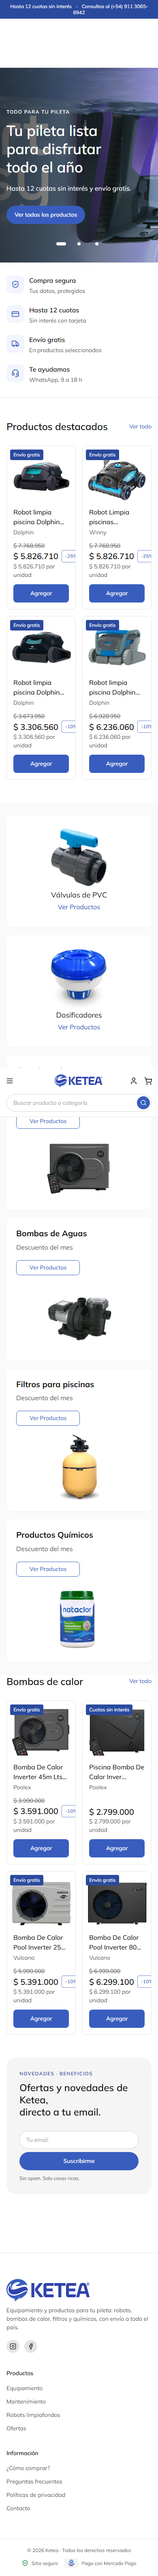
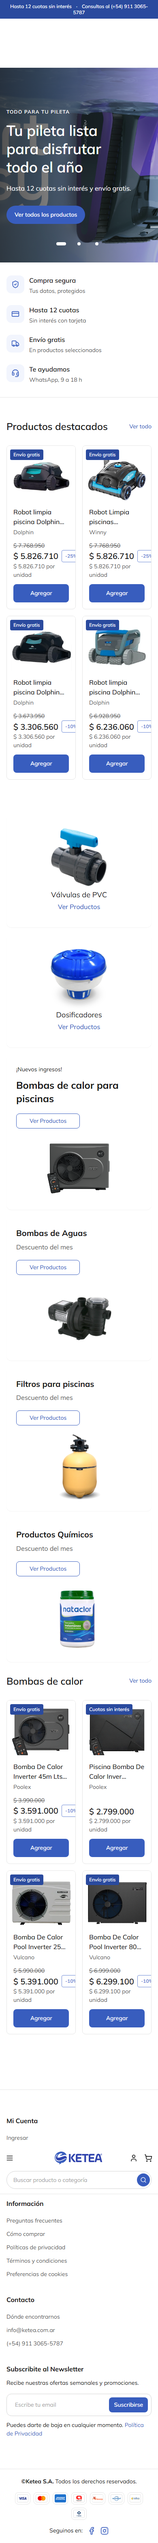
feat(footer): footer de 4 columnas con newsletter y medios de pago; promo-section sin fondo gris

diff --git a/components/footer.tsx b/components/footer.tsx
@@ -1,26 +1,31 @@
 "use client"
 
 import Link from "next/link"
-import { iconButtonClasses } from "@/components/ui/icon-button"
+import { useState } from "react"
 import { usePathname } from "next/navigation"
 import Image from "next/image"
-import { Instagram, Facebook, ShieldCheck } from "lucide-react"
+import { Instagram, Facebook } from "lucide-react"
+import { toast } from "sonner"
+import { Button } from "@/components/ui/button"
 import { cn } from "@/lib/utils"
-import { Logo } from "@/components/ui/logo"
+import { WHATSAPP_LABEL } from "@/components/patterns/header/nav-items"
 
-const PRODUCT_LINKS = [
-  ["Equipamiento", "/productos?nav=piscinas-todos"],
-  ["Mantenimiento", "/productos?nav=mantenimiento-todos"],
-  ["Robots limpiafondos", "/productos?nav=piscinas-robots"],
-  ["Ofertas", "/productos?nav=ofertas"],
+const ACCOUNT_LINKS = [
+  ["Ingresar", "/cuenta"],
+  ["Registrarse", "/cuenta"],
+  ["Recuperar contraseña", "/cuenta"],
+  ["Botón de arrepentimiento", "/contacto"],
 ]
 
 const INFO_LINKS = [
-  ["¿Cómo comprar?", "/como-comprar"],
   ["Preguntas frecuentes", "/preguntas-frecuentes"],
+  ["Cómo comprar", "/como-comprar"],
   ["Políticas de privacidad", "/politicas-de-privacidad"],
-  ["Contacto", "/contacto"],
+  ["Términos y condiciones", "/politicas-de-privacidad"],
+  ["Preferencias de cookies", "/politicas-de-privacidad"],
 ]
+
+const CARDS = ["visa", "mastercard", "amex", "argencard", "naranja", "cencosud", "nativa", "cabal"]
 
 function FooterLinks({ title, links }: { title: string; links: string[][] }) {
   return (
@@ -35,50 +40,78 @@ function FooterLinks({ title, links }: { title: string; links: string[][] }) {
   )
 }
 
-/** Footer — clases de styles/patterns/footer.css. */
+/** Footer — clases de styles/patterns/footer.css. Cuatro columnas (cuenta, información, contacto, newsletter) y barra inferior con medios de pago. */
 export default function Footer() {
   const pathname = usePathname()
+  const [email, setEmail] = useState("")
   // Checkout tiene fondo gris propio: sin margen, para que no quede una franja blanca
   const flush = pathname?.startsWith("/checkout")
+
+  function handleSubmit(e: React.FormEvent) {
+    e.preventDefault()
+    if (!email.trim()) return
+    toast.success("¡Listo! Ya estás suscripto a nuestras novedades.")
+    setEmail("")
+  }
+
   return (
     <footer className={cn("footer", !flush && "footer--spaced")}>
       <div className="footer__grid max-w-7xl mx-auto px-4 md:px-6 grid grid-cols-1 sm:grid-cols-2 lg:grid-cols-4 gap-10">
-        <div className="lg:col-span-2">
-          <Link href="/" className="footer__brand">
-            <Logo size="md" />
-          </Link>
-          <p className="footer__text max-w-sm">
-            Equipamiento y productos para tu pileta: robots, bombas de calor, filtros y químicos, con envío a todo el país.
-          </p>
-          <div className="footer__socials">
-            <a href="https://www.instagram.com/" target="_blank" rel="noopener noreferrer"
-               aria-label="Ketea en Instagram"
-               className={iconButtonClasses({ variant: "subtle", size: "sm" })}>
-              <Instagram className="icon-sm" aria-hidden="true" />
-            </a>
-            <a href="https://www.facebook.com/" target="_blank" rel="noopener noreferrer"
-               aria-label="Ketea en Facebook"
-               className={iconButtonClasses({ variant: "subtle", size: "sm" })}>
-              <Facebook className="icon-sm" aria-hidden="true" />
-            </a>
-          </div>
+        <FooterLinks title="Mi Cuenta" links={ACCOUNT_LINKS} />
+        <FooterLinks title="Información" links={INFO_LINKS} />
+
+        <div>
+          <h2 className="footer__heading">Contacto</h2>
+          <ul className="footer__list">
+            <li><Link href="/contacto" className="footer__link">Dónde encontrarnos</Link></li>
+            <li><a href="mailto:info@ketea.com.ar" className="footer__link">info@ketea.com.ar</a></li>
+            <li><span className="footer__text">{WHATSAPP_LABEL}</span></li>
+          </ul>
         </div>
 
-        <FooterLinks title="Productos" links={PRODUCT_LINKS} />
-        <FooterLinks title="Información" links={INFO_LINKS} />
+        <div>
+          <h2 className="footer__heading footer__heading--tight">Subscribite al Newsletter</h2>
+          <p className="footer__lead">Recibe nuestras ofertas semanales y promociones.</p>
+          <form onSubmit={handleSubmit} className="footer__newsletter">
+            <input
+              type="email"
+              autoComplete="email"
+              required
+              value={email}
+              onChange={(e) => setEmail(e.target.value)}
+              placeholder="Escribe tu email"
+              aria-label="Tu email"
+              className="footer__newsletter-input"
+            />
+            <Button type="submit" size="sm">Suscribirse</Button>
+          </form>
+          <p className="footer__lead">
+            Puedes darte de baja en cualquier momento.{" "}
+            <Link href="/politicas-de-privacidad" className="footer__link footer__link--brand">Política de Privacidad</Link>
+          </p>
+        </div>
       </div>
 
       <div className="footer__legal">
         <div className="footer__legal-row max-w-7xl mx-auto px-4 md:px-6">
-          <span>© {new Date().getFullYear()} Ketea · Todos los derechos reservados</span>
-          <div className="footer__legal-group">
-            <span className="footer__legal-item">
-              <ShieldCheck aria-hidden="true" /> Sitio seguro
-            </span>
-            <span className="footer__legal-item">
-              <Image src="/cards/mercado-pago.svg" alt="" width={40} height={28} className="footer__payment" />
-              Pago con Mercado Pago
-            </span>
+          <span className="footer__copy"><strong>©Ketea S.A.</strong> Todos los derechos reservados.</span>
+
+          <ul className="footer__cards" aria-label="Medios de pago">
+            {CARDS.map((card) => (
+              <li key={card} className="footer__card">
+                <Image src={`/cards/${card}.svg`} alt={card} width={40} height={24} className="footer__card-image" />
+              </li>
+            ))}
+          </ul>
+
+          <div className="footer__socials">
+            <span>Seguinos en:</span>
+            <a href="https://www.facebook.com/" target="_blank" rel="noopener noreferrer" aria-label="Ketea en Facebook" className="footer__social">
+              <Facebook className="icon-md" aria-hidden="true" />
+            </a>
+            <a href="https://www.instagram.com/" target="_blank" rel="noopener noreferrer" aria-label="Ketea en Instagram" className="footer__social">
+              <Instagram className="icon-md" aria-hidden="true" />
+            </a>
           </div>
         </div>
       </div>

diff --git a/styles/patterns/footer.css b/styles/patterns/footer.css
@@ -1,20 +1,57 @@
-/* Footer del sitio. Grilla y espaciado en Tailwind dentro del componente; acá, superficie y tipografía. */
+/* Footer del sitio (Figma: Footer). Grilla y espaciado en Tailwind dentro del componente; acá, superficie y tipografía.
+   Cuatro columnas (cuenta, información, contacto, newsletter) y barra inferior con medios de pago y redes. */
 @layer components {
   .footer { border-top: var(--border-width-sm) solid var(--color-border-default); background-color: var(--color-surface-default); color: var(--color-text-primary); }
-  .footer__text { font-size: var(--font-size-sm); line-height: var(--font-line-height-md); color: var(--color-text-secondary); }
-  .footer__heading { margin-bottom: var(--space-4); font-size: var(--font-size-sm); line-height: var(--font-line-height-sm); font-weight: var(--font-weight-semibold); color: var(--color-text-primary); }
-  .footer__list { display: flex; flex-direction: column; gap: var(--space-2-5); font-size: var(--font-size-sm); line-height: var(--font-line-height-sm); color: var(--color-text-secondary); }
-  .footer__link { color: var(--color-text-secondary); transition: color var(--duration-fast) var(--easing-standard); }
-  .footer__link:hover { color: var(--color-text-primary); }
-  .footer__legal { border-top: var(--border-width-sm) solid var(--color-border-default); font-size: var(--font-size-xs); line-height: var(--font-line-height-xs); color: var(--color-text-secondary); }
-  .footer__legal-item { display: flex; align-items: center; gap: var(--space-1-5); }
-  .footer__legal-item > svg { width: var(--space-4); height: var(--space-4); color: var(--color-feedback-success-solid); }
-  .footer__payment { height: var(--space-6); width: auto; border-radius: var(--radius-sm); }
   .footer--spaced { margin-top: var(--space-20); }
   .footer__grid { padding-block: var(--space-14); }
-  .footer__brand { display: flex; align-items: center; flex-shrink: 0; margin-bottom: var(--space-3); }
-  .footer__socials { display: flex; align-items: center; gap: var(--space-3); margin-top: var(--space-5); }
-  .footer__legal-row { display: flex; flex-direction: column; align-items: center; justify-content: space-between; gap: var(--space-3); padding-block: var(--space-5); }
-  @media (min-width: 640px) { .footer__legal-row { flex-direction: row; } }
-  .footer__legal-group { display: flex; align-items: center; gap: var(--space-4); }
+
+  .footer__heading { margin-bottom: var(--space-5); font-size: var(--font-size-md); line-height: var(--font-line-height-md); font-weight: var(--font-weight-bold); color: var(--color-text-primary); }
+  .footer__heading--tight { margin-bottom: var(--space-1); }
+  .footer__list { display: flex; flex-direction: column; gap: var(--space-3); font-size: var(--font-size-sm); line-height: var(--font-line-height-sm); }
+  .footer__text { color: var(--color-text-secondary); }
+  .footer__link { color: var(--color-text-secondary); transition: color var(--duration-fast) var(--easing-standard); }
+  .footer__link:hover { color: var(--color-text-primary); }
+  .footer__link--brand { color: var(--color-text-link); }
+  .footer__link--brand:hover { color: var(--color-text-link-hover); }
+  .footer__lead { margin-block: var(--space-3); font-size: var(--font-size-sm); line-height: var(--font-line-height-sm); color: var(--color-text-primary); }
+
+  /* Newsletter: campo y botón dentro de un mismo borde */
+  .footer__newsletter {
+    display: flex;
+    align-items: center;
+    gap: var(--space-2);
+    margin-top: var(--space-4);
+    padding: var(--space-1-5);
+    border: var(--border-width-sm) solid var(--color-form-border);
+    border-radius: var(--radius-lg);
+    background-color: var(--color-form-bg);
+  }
+  .footer__newsletter:focus-within { border-color: var(--color-form-border-focus); }
+  .footer__newsletter-input {
+    flex: 1 1 0%;
+    min-width: 0;
+    padding-inline: var(--space-3);
+    border: 0;
+    background-color: transparent;
+    font-size: var(--font-size-sm);
+    line-height: var(--font-line-height-sm);
+    color: var(--color-text-primary);
+  }
+  .footer__newsletter-input::placeholder { color: var(--color-form-placeholder); }
+  /* El borde de foco lo muestra el contenedor */
+  .footer__newsletter-input:focus-visible { outline: none; border: 0; box-shadow: none; background-color: transparent; }
+
+  /* Barra inferior */
+  .footer__legal { border-top: var(--border-width-sm) solid var(--color-border-default); font-size: var(--font-size-sm); line-height: var(--font-line-height-sm); color: var(--color-text-primary); }
+  .footer__legal-row { display: flex; flex-direction: column; align-items: center; justify-content: space-between; gap: var(--space-4); padding-block: var(--space-5); }
+  @media (min-width: 1024px) { .footer__legal-row { flex-direction: row; } }
+  .footer__copy { text-align: center; }
+
+  .footer__cards { display: flex; flex-wrap: wrap; align-items: center; justify-content: center; gap: var(--space-2); }
+  .footer__card { display: flex; align-items: center; justify-content: center; padding: var(--space-1); border: var(--border-width-sm) solid var(--color-border-default); border-radius: var(--radius-md); background-color: var(--color-surface-default); }
+  .footer__card-image { width: auto; height: var(--space-5); }
+
+  .footer__socials { display: flex; align-items: center; gap: var(--space-3); }
+  .footer__social { display: inline-flex; color: var(--color-icon-brand); transition: color var(--duration-fast) var(--easing-standard); }
+  .footer__social:hover { color: var(--color-text-link-hover); }
 }

diff --git a/app/preguntas-frecuentes/page.tsx b/app/preguntas-frecuentes/page.tsx
@@ -6,7 +6,7 @@ import Link from "next/link"
 import { ChevronDown } from "lucide-react"
 import { PageHeader } from "@/components/patterns/page-header"
 
-const WHATSAPP = "https://api.whatsapp.com/send?phone=5491130656942"
+const WHATSAPP = "https://api.whatsapp.com/send?phone=5491130655787"
 
 const FAQS: { q: string; a: ReactNode }[] = [
   {
@@ -27,11 +27,11 @@ const FAQS: { q: string; a: ReactNode }[] = [
   },
   {
     q: "¿En qué zonas entregan?",
-    a: <>Entregamos en CABA y cada barrio tiene un día fijo. Al cargar tu dirección en el checkout te mostramos qué día te toca.<br />Para GBA, contactanos al <a href={WHATSAPP} target="_blank" rel="noopener noreferrer" className={linkClasses()}>(+54) 911 3065-6942</a>.</>,
+    a: <>Entregamos en CABA y cada barrio tiene un día fijo. Al cargar tu dirección en el checkout te mostramos qué día te toca.<br />Para GBA, contactanos al <a href={WHATSAPP} target="_blank" rel="noopener noreferrer" className={linkClasses()}>(+54) 911 3065-5787</a>.</>,
   },
   {
     q: "¿Cuánto cuesta el envío?",
-    a: <>Envío en CABA: lo recibís gratis en el día que corresponde a tu barrio.<br />Para envíos en GBA, contactanos al <a href={WHATSAPP} target="_blank" rel="noopener noreferrer" className={linkClasses()}>(+54) 911 3065-6942</a>.</>,
+    a: <>Envío en CABA: lo recibís gratis en el día que corresponde a tu barrio.<br />Para envíos en GBA, contactanos al <a href={WHATSAPP} target="_blank" rel="noopener noreferrer" className={linkClasses()}>(+54) 911 3065-5787</a>.</>,
   },
   {
     q: "¿Puede recibir otra persona mi pedido?",
@@ -71,7 +71,7 @@ const FAQS: { q: string; a: ReactNode }[] = [
   },
   {
     q: "Tengo otra pregunta",
-    a: <>Contactanos de lunes a viernes de 9 a 18 h al <a href={WHATSAPP} target="_blank" rel="noopener noreferrer" className={linkClasses()}>(+54) 911 3065-6942</a>.</>,
+    a: <>Contactanos de lunes a viernes de 9 a 18 h al <a href={WHATSAPP} target="_blank" rel="noopener noreferrer" className={linkClasses()}>(+54) 911 3065-5787</a>.</>,
   },
 ]
 
@@ -83,7 +83,7 @@ export default function PreguntasFrecuentesPage() {
       <PageHeader eyebrow="Ayuda" title="Preguntas frecuentes">
         Si no encontrás lo que buscás acá, escribinos por{" "}
         <a
-          href="https://api.whatsapp.com/send?phone=5491130656942"
+          href="https://api.whatsapp.com/send?phone=5491130655787"
           target="_blank"
           rel="noopener noreferrer"
           className={linkClasses()}

diff --git a/app/contacto/page.tsx b/app/contacto/page.tsx
@@ -17,14 +17,14 @@ export default function ContactoPage() {
       </PageHeader>
 
       <div className="space-y-4 mb-14">
-        <FeatureRow variant="card" href="https://api.whatsapp.com/send?phone=5491130656942" icon={<Phone className="icon-md" aria-hidden="true" />} title="WhatsApp">
-          (+54) 911 3065-6942
+        <FeatureRow variant="card" href="https://api.whatsapp.com/send?phone=5491130655787" icon={<Phone className="icon-md" aria-hidden="true" />} title="WhatsApp">
+          (+54) 911 3065-5787
         </FeatureRow>
         <FeatureRow variant="card" icon={<Clock className="icon-md" aria-hidden="true" />} title="Horario de atención">
           Lunes a viernes de 9 a 18 hs
         </FeatureRow>
         <FeatureRow variant="card" icon={<MapPin className="icon-md" aria-hidden="true" />} title="Zona de entrega">
-          Envío gratis en CABA · GBA: consultanos al (+54) 911 3065-6942
+          Envío gratis en CABA · GBA: consultanos al (+54) 911 3065-5787
         </FeatureRow>
       </div>
 

diff --git a/app/page.tsx b/app/page.tsx
@@ -1,7 +1,6 @@
 import { Truck, ShieldCheck, CreditCard, Headset } from "lucide-react"
 import ProductCard from "@/components/patterns/product-card"
 import Hero from "@/components/hero"
-import NewsletterBanner from "@/components/newsletter-banner"
 import { TrustStrip, type TrustItem } from "@/components/patterns/trust-strip"
 import { PromoBanner } from "@/components/patterns/promo-banner"
 import { SectionHeader } from "@/components/patterns/section-header"
@@ -55,7 +54,6 @@ export default function HomePage() {
         </section>
       )}
 
-      <NewsletterBanner />
     </div>
   )
 }

diff --git a/components/patterns/shipping-form.tsx b/components/patterns/shipping-form.tsx
@@ -25,7 +25,7 @@ export const EMPTY_SHIPPING: ShippingData = {
   nombre: "", apellido: "", direccion: "", piso: "", localidad: "", cp: "", telefono: "", recibe: "", instrucciones: "",
 }
 
-const WHATSAPP_URL = "https://api.whatsapp.com/send?phone=5491130656942"
+const WHATSAPP_URL = "https://api.whatsapp.com/send?phone=5491130655787"
 
 /** Aviso de zona de entrega según barrio y CP (Figma: Forms / Checkout / Shipping). Clases de callout.css. */
 export function DeliveryZoneNotice({ localidad, cp }: { localidad: string; cp: string }) {

diff --git a/components/patterns/header/nav-items.ts b/components/patterns/header/nav-items.ts
@@ -17,5 +17,5 @@ export const TAPAS_ITEMS: NavSubItem[] = [
   { key: "mantenimiento-accesorios", label: "Accesorios" },
 ]
 
-export const WHATSAPP_URL = "https://api.whatsapp.com/send?phone=5491130656942"
-export const WHATSAPP_LABEL = "(+54) 911 3065-6942"
+export const WHATSAPP_URL = "https://api.whatsapp.com/send?phone=5491130655787"
+export const WHATSAPP_LABEL = "(+54) 911 3065-5787"

diff --git a/lib/delivery.ts b/lib/delivery.ts
@@ -2,7 +2,7 @@
 // Para mover un barrio de día, cambialo de lista acá — el checkout lo toma solo.
 
 export const DELIVERY_HOURS = "de 9 a 15 h"
-export const SUPPORT_PHONE = "(+54) 911 3065-6942"
+export const SUPPORT_PHONE = "(+54) 911 3065-5787"
 
 type Dia = "lunes" | "martes" | "miércoles" | "jueves" | "viernes"
 

diff --git a/styles/patterns/promo-banner.css b/styles/patterns/promo-banner.css
@@ -44,5 +44,5 @@
   }
 
   /* Fondo de la sección de banners en la portada */
-  .promo-section { padding-block: var(--space-8); background-color: var(--color-surface-page); }
+  .promo-section { padding-block: var(--space-8); }
 }
